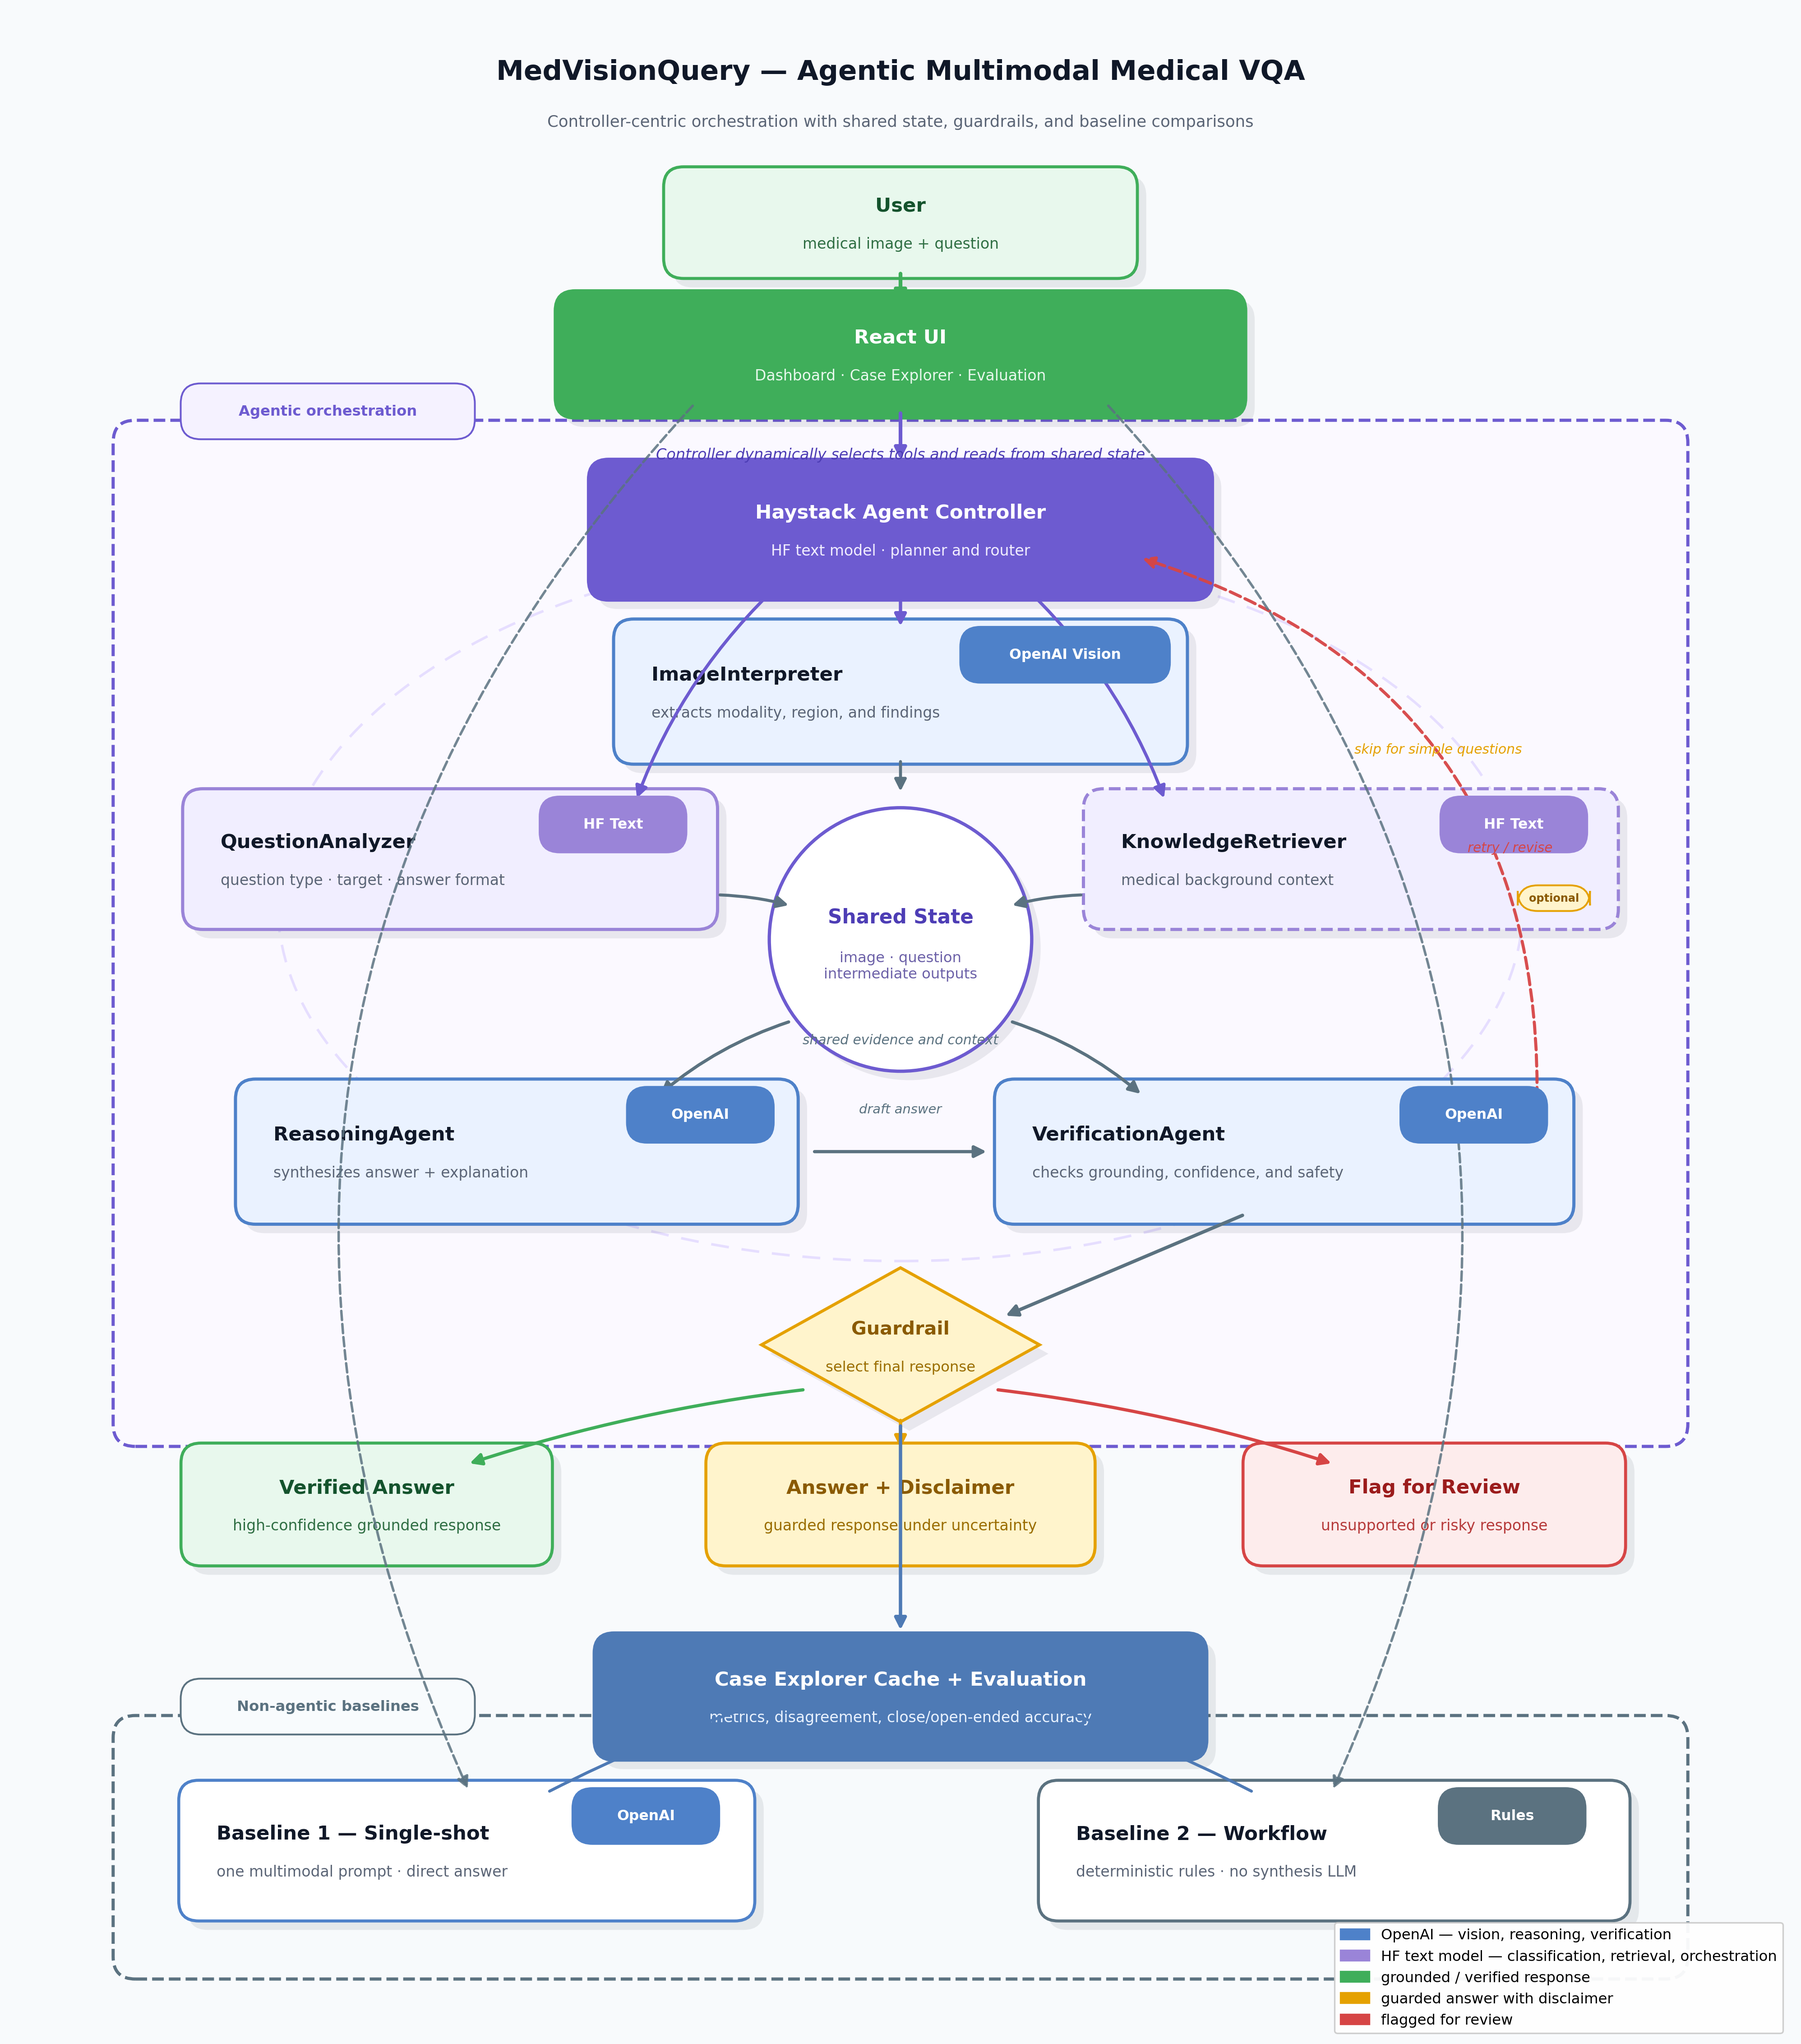
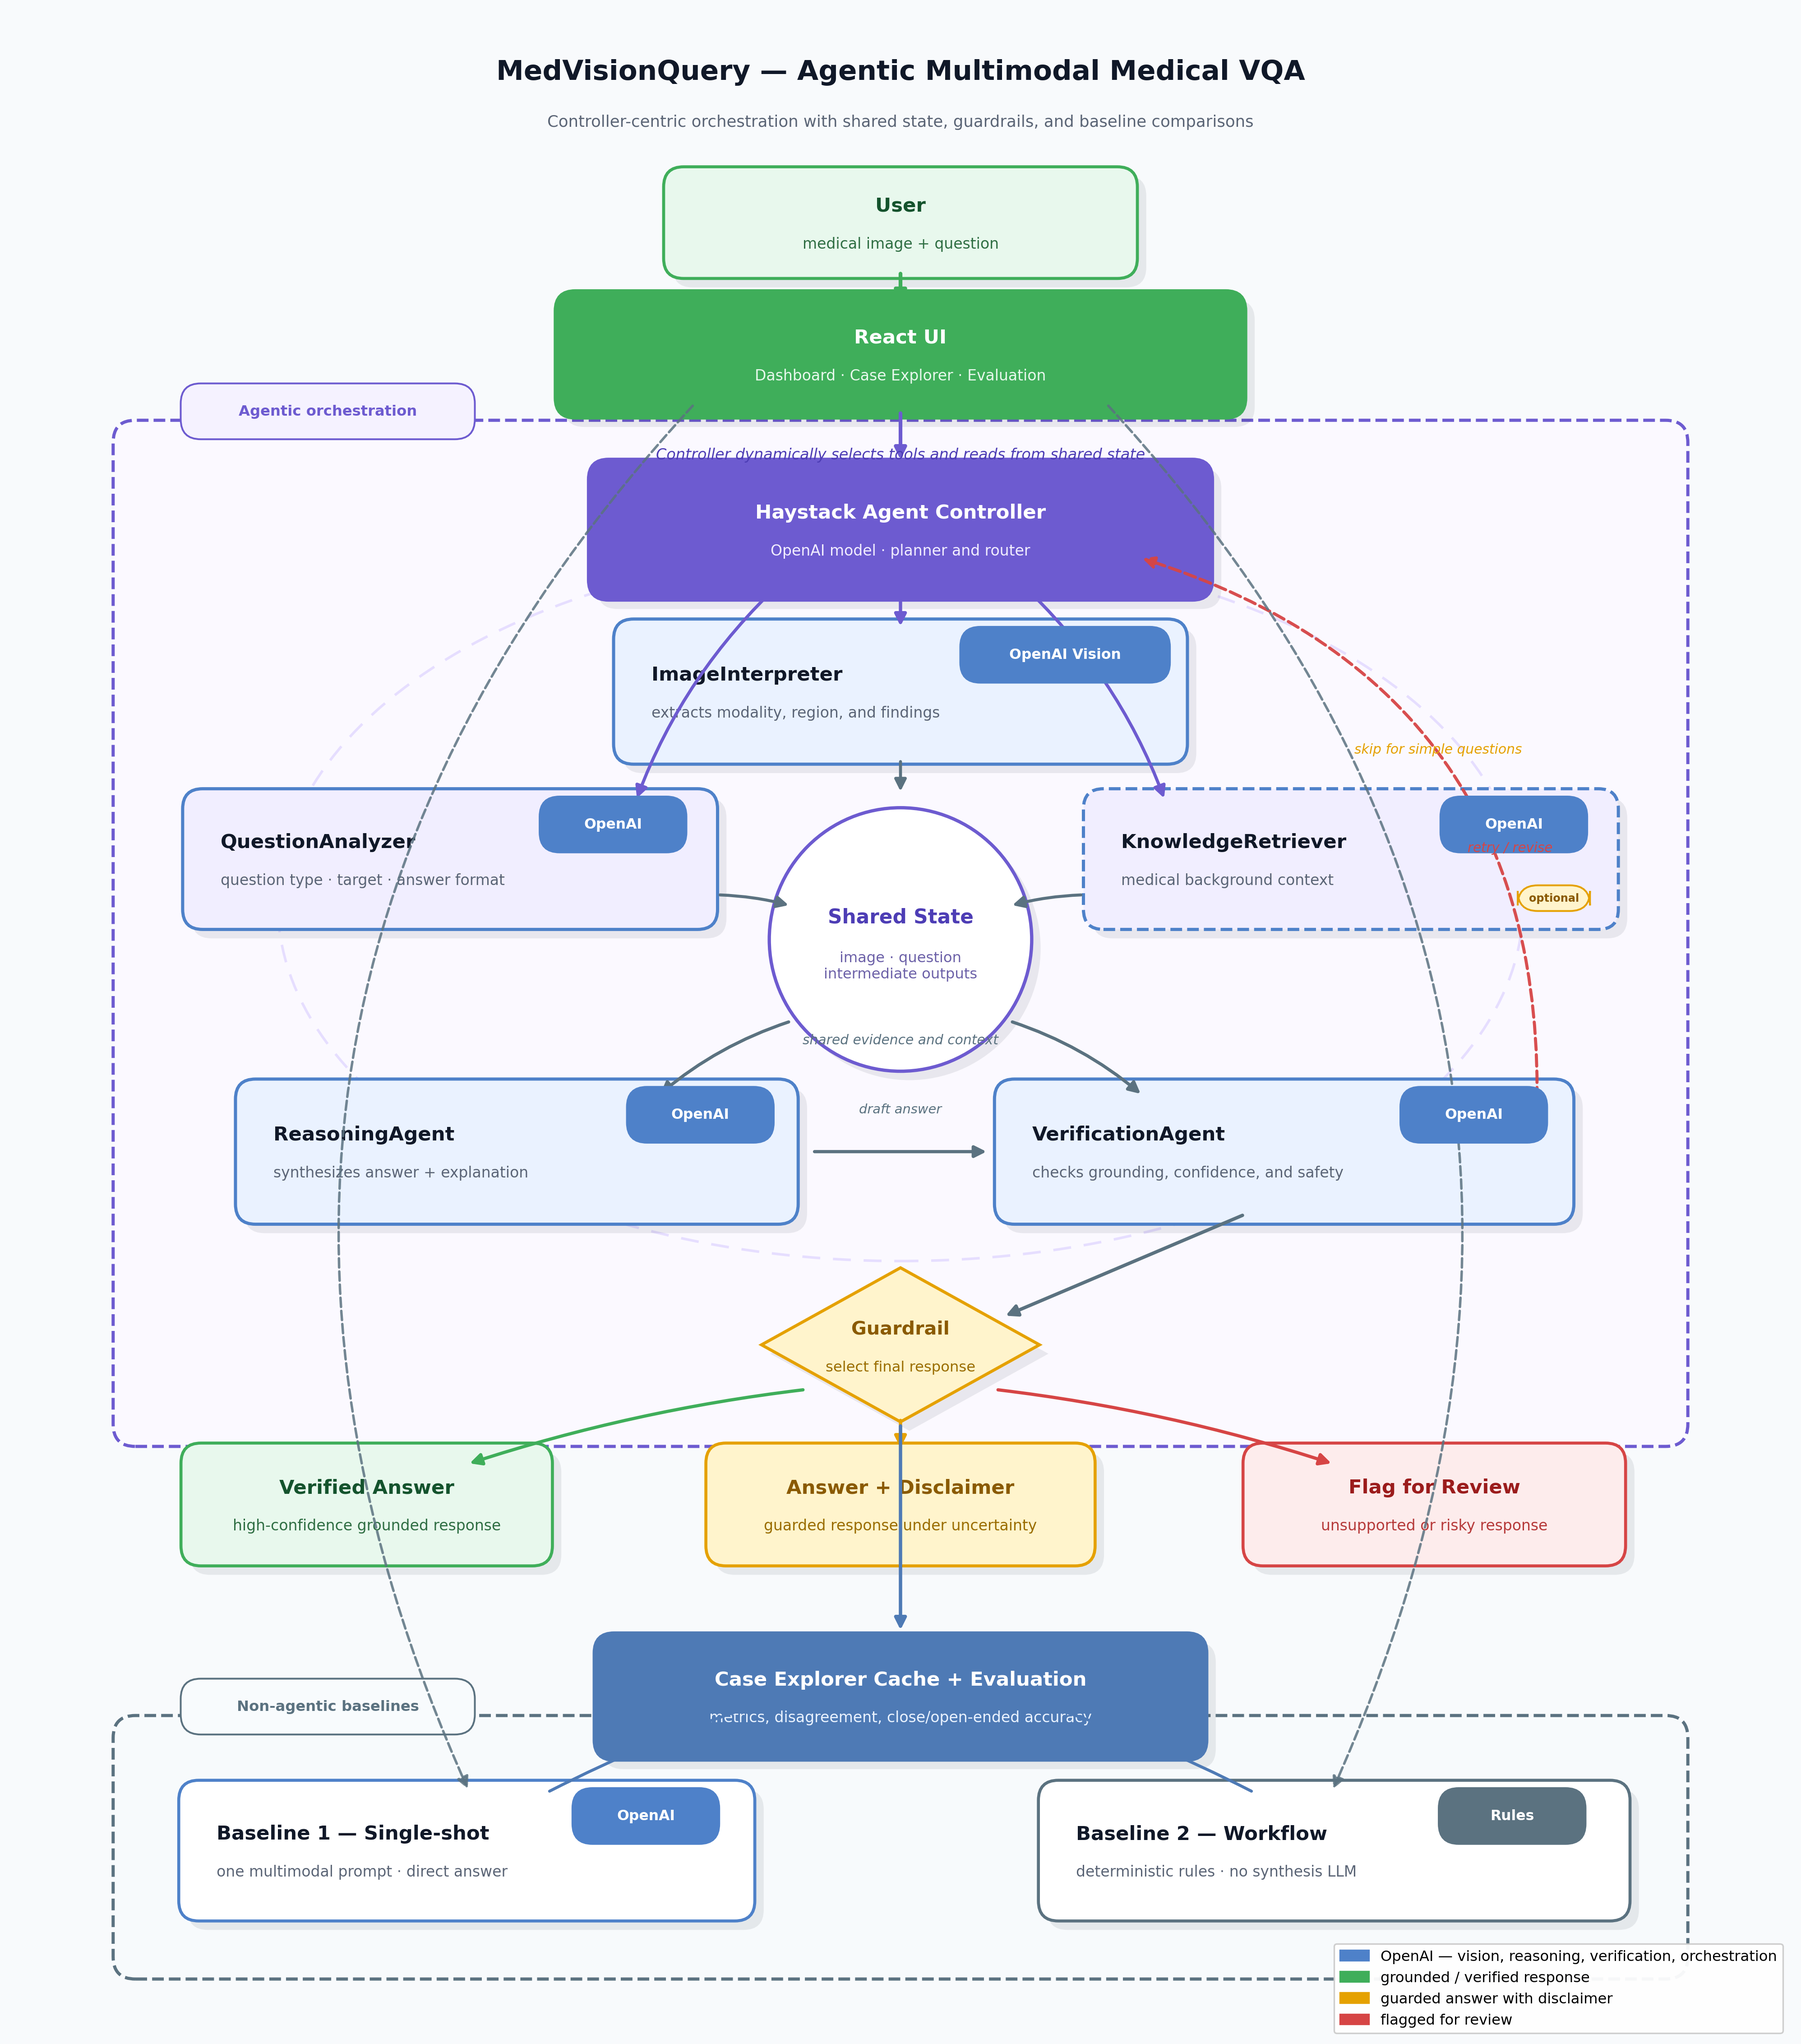
feat: Add a system architecture diagram and update the README to clarify the OpenAI-centric technology stack.

Changed region(s): [[0.7455, 0.934, 0.9319, 0.9962], [0.2796, 0.3736, 0.4038, 0.4359], [0.7766, 0.3736, 0.9008, 0.4359]]

diff --git a/scripts/system_diagram.py b/scripts/system_diagram.py
@@ -346,7 +346,7 @@ label(
     italic=True,
 )
 
-box(ax, 8, 13.35, 5.45, 1.10, PURPLE, PURPLE, "Haystack Agent Controller", "HF text model · planner and router", tc="white", sc="#F1EDFF", lw=2.2)
+box(ax, 8, 13.35, 5.45, 1.10, PURPLE, PURPLE, "Haystack Agent Controller", "OpenAI model · planner and router", tc="white", sc="#F1EDFF", lw=2.2)
 arrow(ax, (8, 14.42), (8, 13.95), color=PURPLE, lw=2.45)
 
 img_x, img_y, img_w, img_h = box(
@@ -371,13 +371,13 @@ qa_x, qa_y, qa_w, qa_h = box(
     4.65,
     1.10,
     PURPLE_SOFT,
-    HF,
+    OPENAI,
     "QuestionAnalyzer",
     "question type · target · answer format",
     align="left",
     lw=2.1,
 )
-pill(ax, qa_x + qa_w - 0.86, qa_y + qa_h - 0.24, "HF Text", HF)
+pill(ax, qa_x + qa_w - 0.86, qa_y + qa_h - 0.24, "OpenAI", OPENAI)
 
 kr_x, kr_y, kr_w, kr_h = box(
     ax,
@@ -386,14 +386,14 @@ kr_x, kr_y, kr_w, kr_h = box(
     4.65,
     1.10,
     PURPLE_SOFT,
-    HF,
+    OPENAI,
     "KnowledgeRetriever",
     "medical background context",
     align="left",
     lw=2.1,
     ls="--",
 )
-pill(ax, kr_x + kr_w - 0.86, kr_y + kr_h - 0.24, "HF Text", HF)
+pill(ax, kr_x + kr_w - 0.86, kr_y + kr_h - 0.24, "OpenAI", OPENAI)
 pill(ax, kr_x + kr_w - 0.50, kr_y + 0.20, "optional", AMBER_SOFT, tc="#8A5A00", ec=AMBER, fs=5.8, w_override=0.64, h_override=0.22, pad=0.005)
 
 circle_node(ax, 8, 9.68, 1.18, "white", PURPLE, "Shared State", "image · question\nintermediate outputs", tc=PURPLE_DARK, sc="#6C61A8")
@@ -500,8 +500,7 @@ arrow(ax, (4.82, 2.04), (6.75, 2.84), color=TEAL, lw=1.95, rad=-0.04)
 arrow(ax, (11.18, 2.04), (9.25, 2.84), color=TEAL, lw=1.95, rad=0.04)
 
 legend_items = [
-    mpatches.Patch(color=OPENAI, label="OpenAI — vision, reasoning, verification"),
-    mpatches.Patch(color=HF, label="HF text model — classification, retrieval, orchestration"),
+    mpatches.Patch(color=OPENAI, label="OpenAI — vision, reasoning, verification, orchestration"),
     mpatches.Patch(color=GREEN, label="grounded / verified response"),
     mpatches.Patch(color=AMBER, label="guarded answer with disclaimer"),
     mpatches.Patch(color=RED, label="flagged for review"),
@@ -525,5 +524,5 @@ out_path = os.path.join(out_dir, "system_diagram.png")
 
 plt.tight_layout(pad=0.6)
 plt.savefig(out_path, dpi=240, bbox_inches="tight", facecolor=fig.get_facecolor())
-print("Saved →", os.path.abspath(out_path))
+print("Saved ->", os.path.abspath(out_path))
 plt.show()

diff --git a/README.md b/README.md
@@ -136,7 +136,7 @@ The current runtime uses a single OpenAI configuration across the full agentic p
 |---|---|
 | `OPENAI_API_KEY`, `OPENAI_MODEL` | `ImageInterpreter`, `QuestionAnalyzer`, `KnowledgeRetriever`, `ReasoningAgent`, `VerificationAgent`, Haystack controller, `baseline.py` |
 
-`backend/config.py` and `.env.example` still include `HF_TOKEN`, `TEXT_MODEL`, and `TEXT_MODEL_BASE_URL`, but those variables are currently legacy and are not imported by the active request path.
+All agentic steps strictly utilize OpenAI; any legacy mentions of `HF_TOKEN` or `TEXT_MODEL` in `.env.example` or `config.py` are deprecated, and Hugging Face is only used to download the data via scripts.
 
 ### Other Technology Choices
 
@@ -384,7 +384,7 @@ Optional: create `frontend/.env` if the frontend should point to a non-default b
 VITE_API_BASE=http://localhost:8000
 ```
 
-Note: `.env.example` still includes legacy HF-related variables, but the current runtime path only requires `OPENAI_API_KEY`, `OPENAI_MODEL`, and `BACKEND_CORS_ORIGINS`.
+Note: The current runtime path only requires `OPENAI_API_KEY`, `OPENAI_MODEL`, and `BACKEND_CORS_ORIGINS`.
 
 ### 2. Install Python dependencies
 
